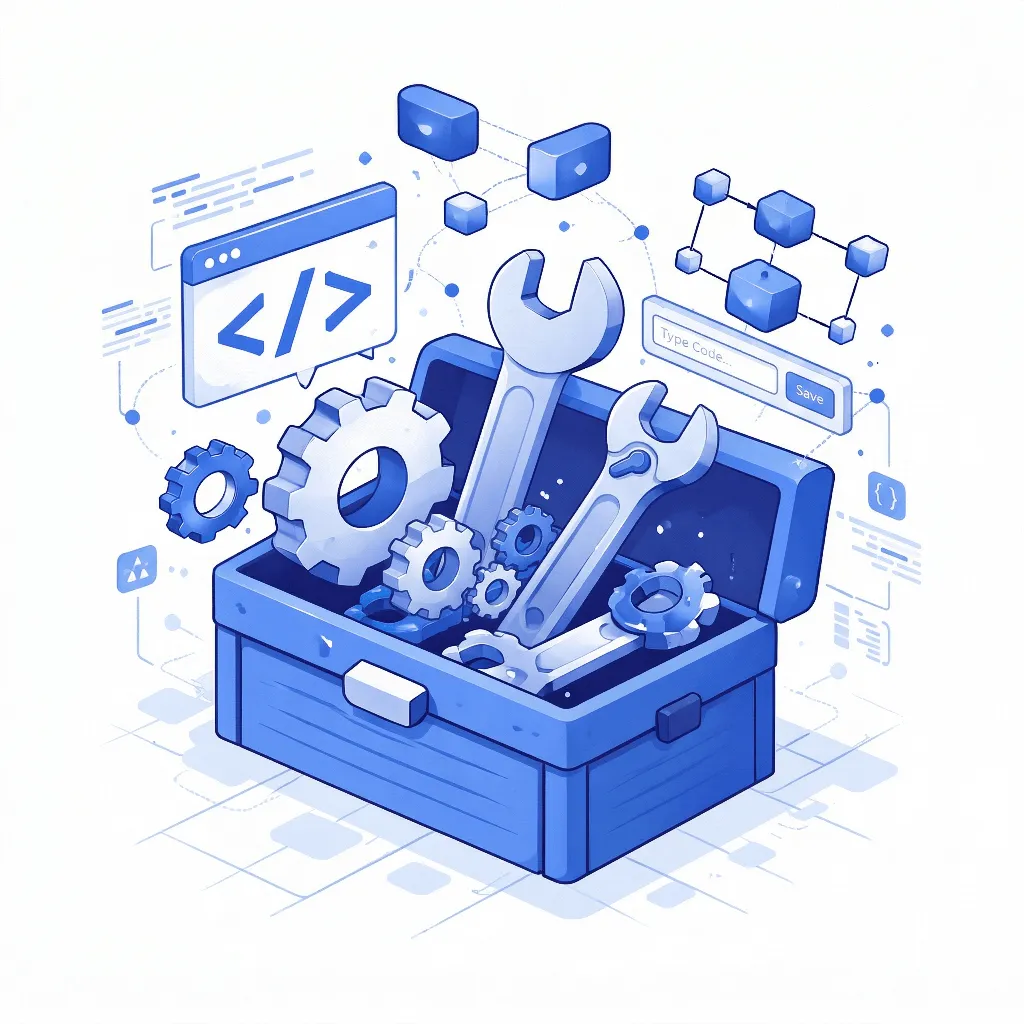
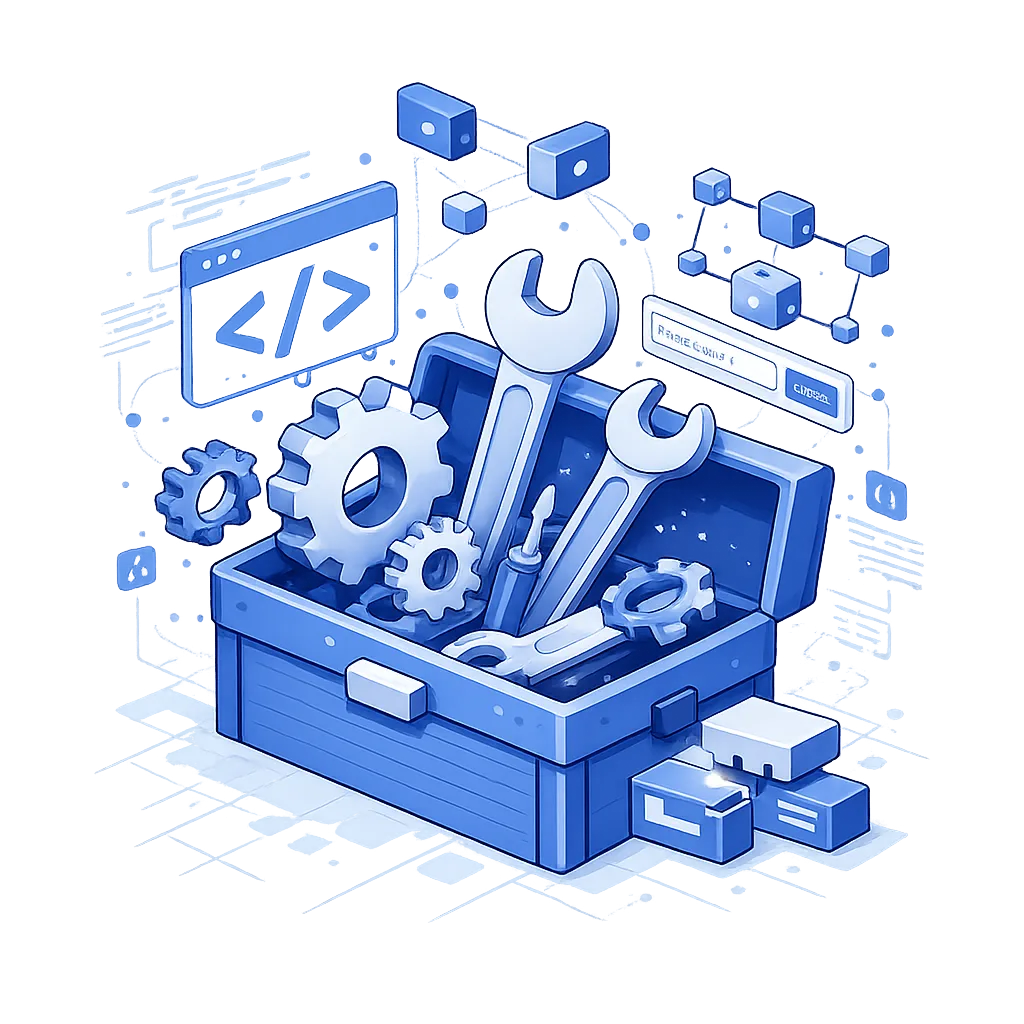
Optimize docs hero image

diff --git a/packages/docs/index.md b/packages/docs/index.md
@@ -8,8 +8,7 @@ hero:
   text: A data-attributes driven micro framework
   tagline: Write JavaScript components as classes and bind them to the DOM with data-attributes
   image:
-    light: /hero-light.png
-    dark: /hero-dark.png
+    src: /hero.webp
     alt: Hero illustration for the JS Toolkit documentation
   actions:
     - theme: brand